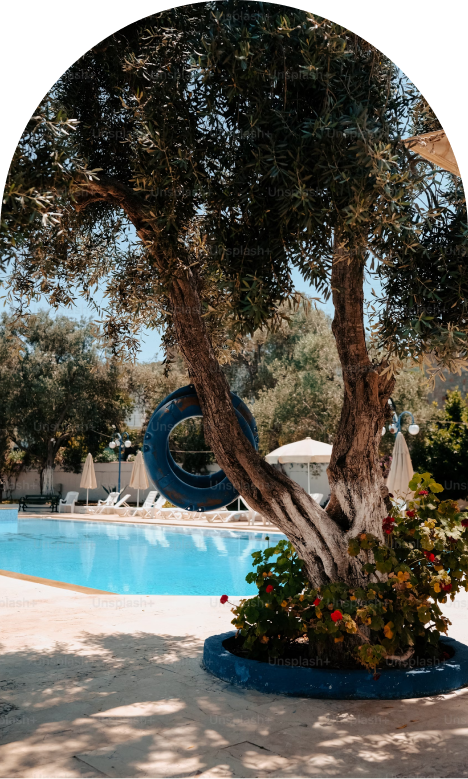
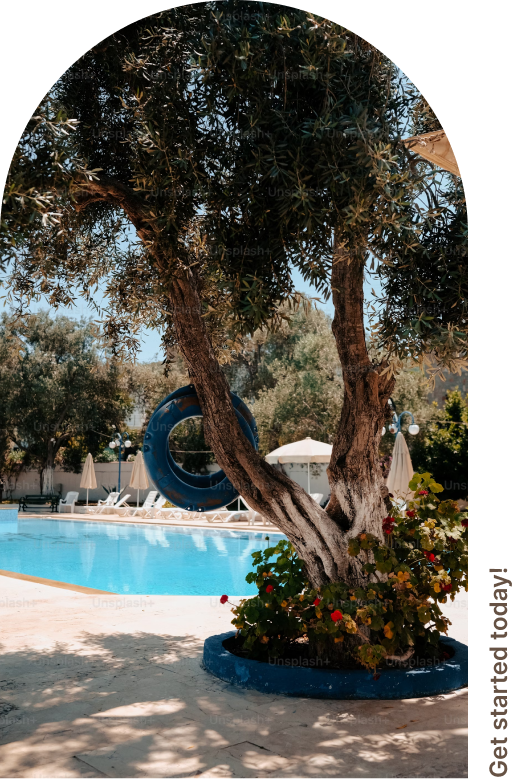
edit images

diff --git a/components/features/HomeThirdSegment/index.vue b/components/features/HomeThirdSegment/index.vue
@@ -2,7 +2,7 @@
   <div class="py-32 px-20">
     <section class="flex gap-x-8 justify-between h-[530px] py-10">
       <div
-        class="explore-item w-1/3 h-full bg-[url('@/assets/images/pool1.png')] bg-no-repeat bg-center bg-cover bg-fixed"
+        class="explore-item w-1/3 h-full bg-[url('@/assets/images/pool1.png')] bg-no-repeat bg-left-top bg-contain bg-fixed"
       ></div>
 
       <div class="w-2/3 h-full" id="portfolioIntro">
